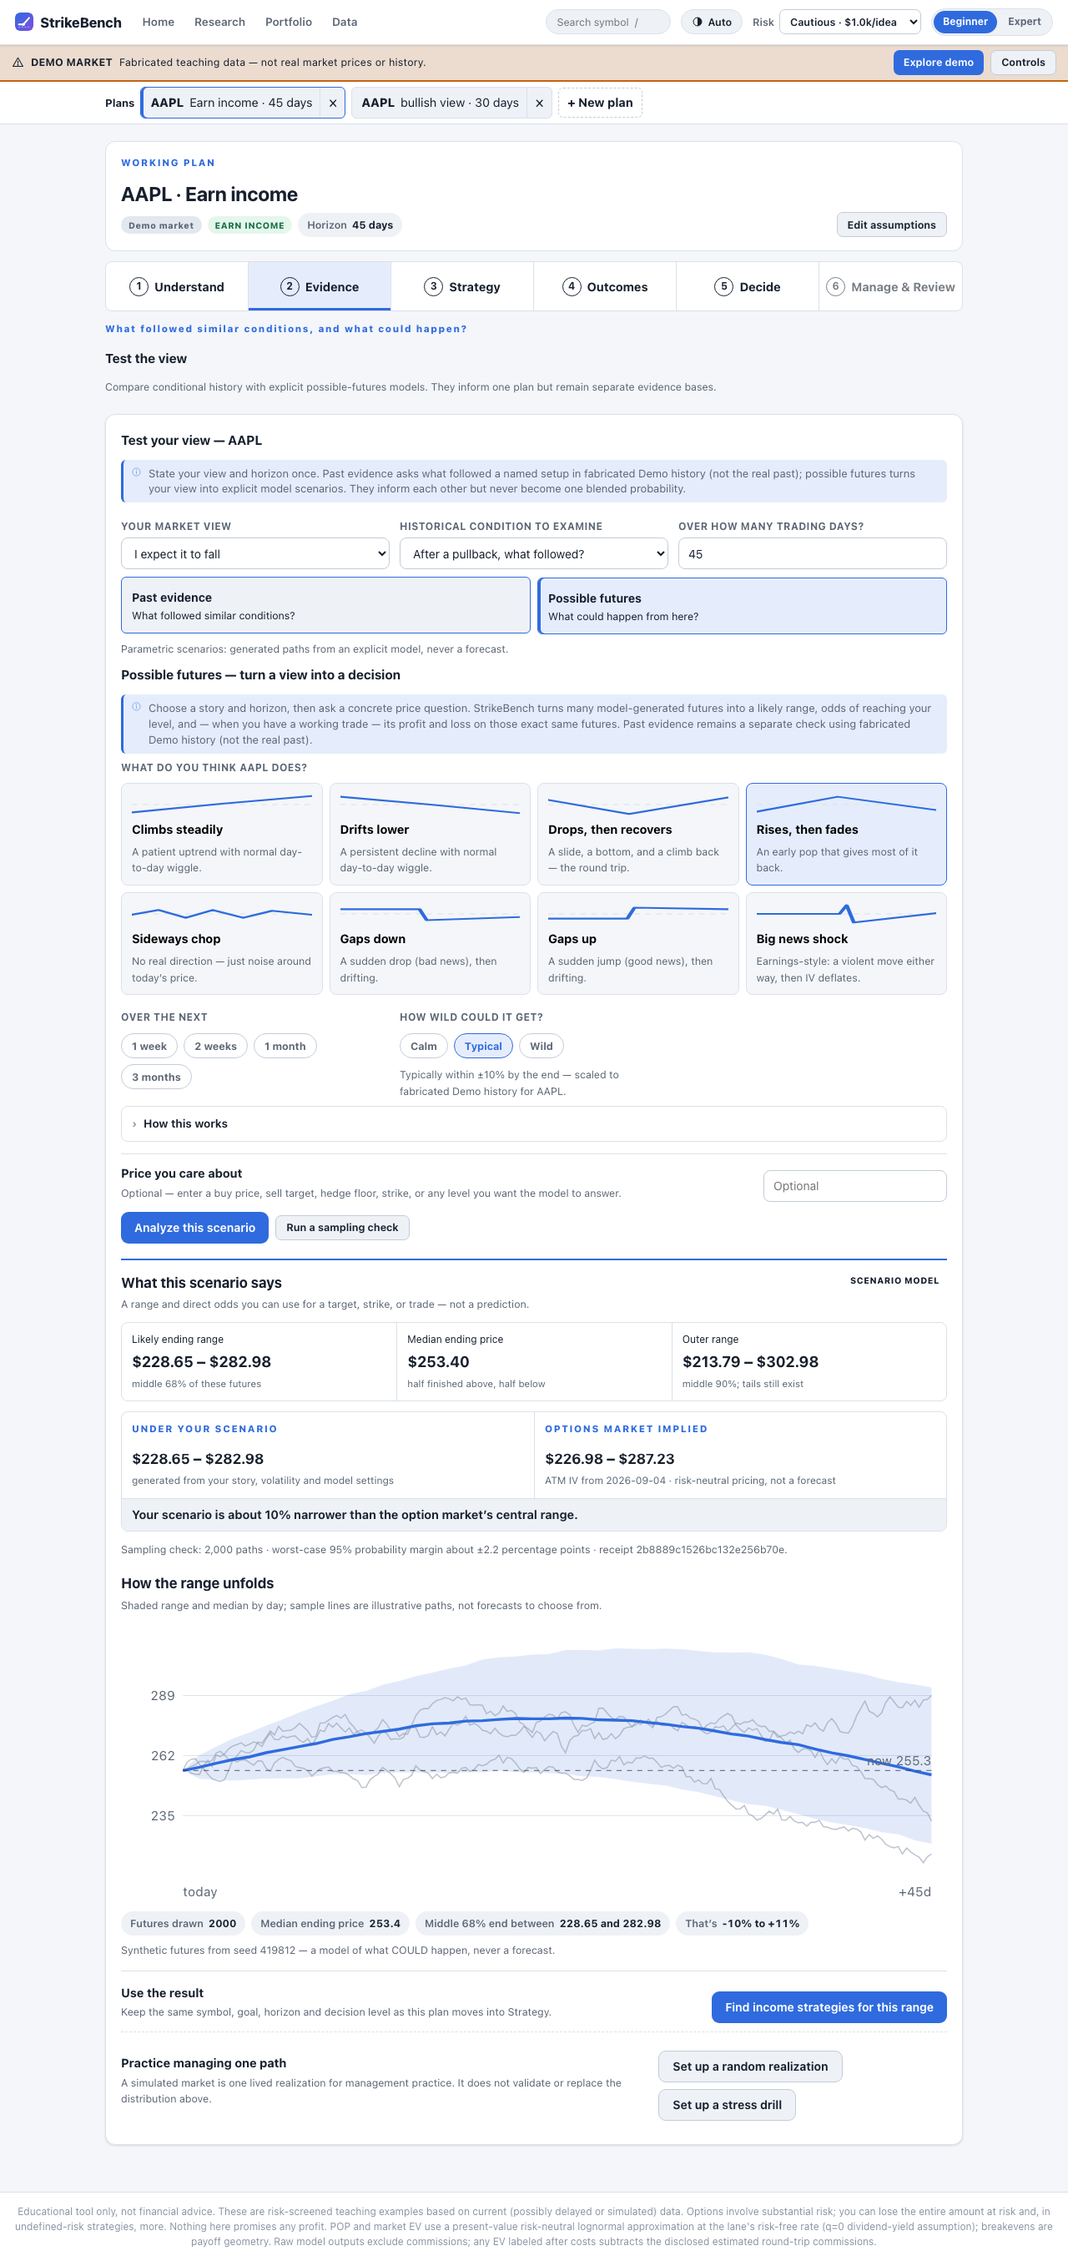
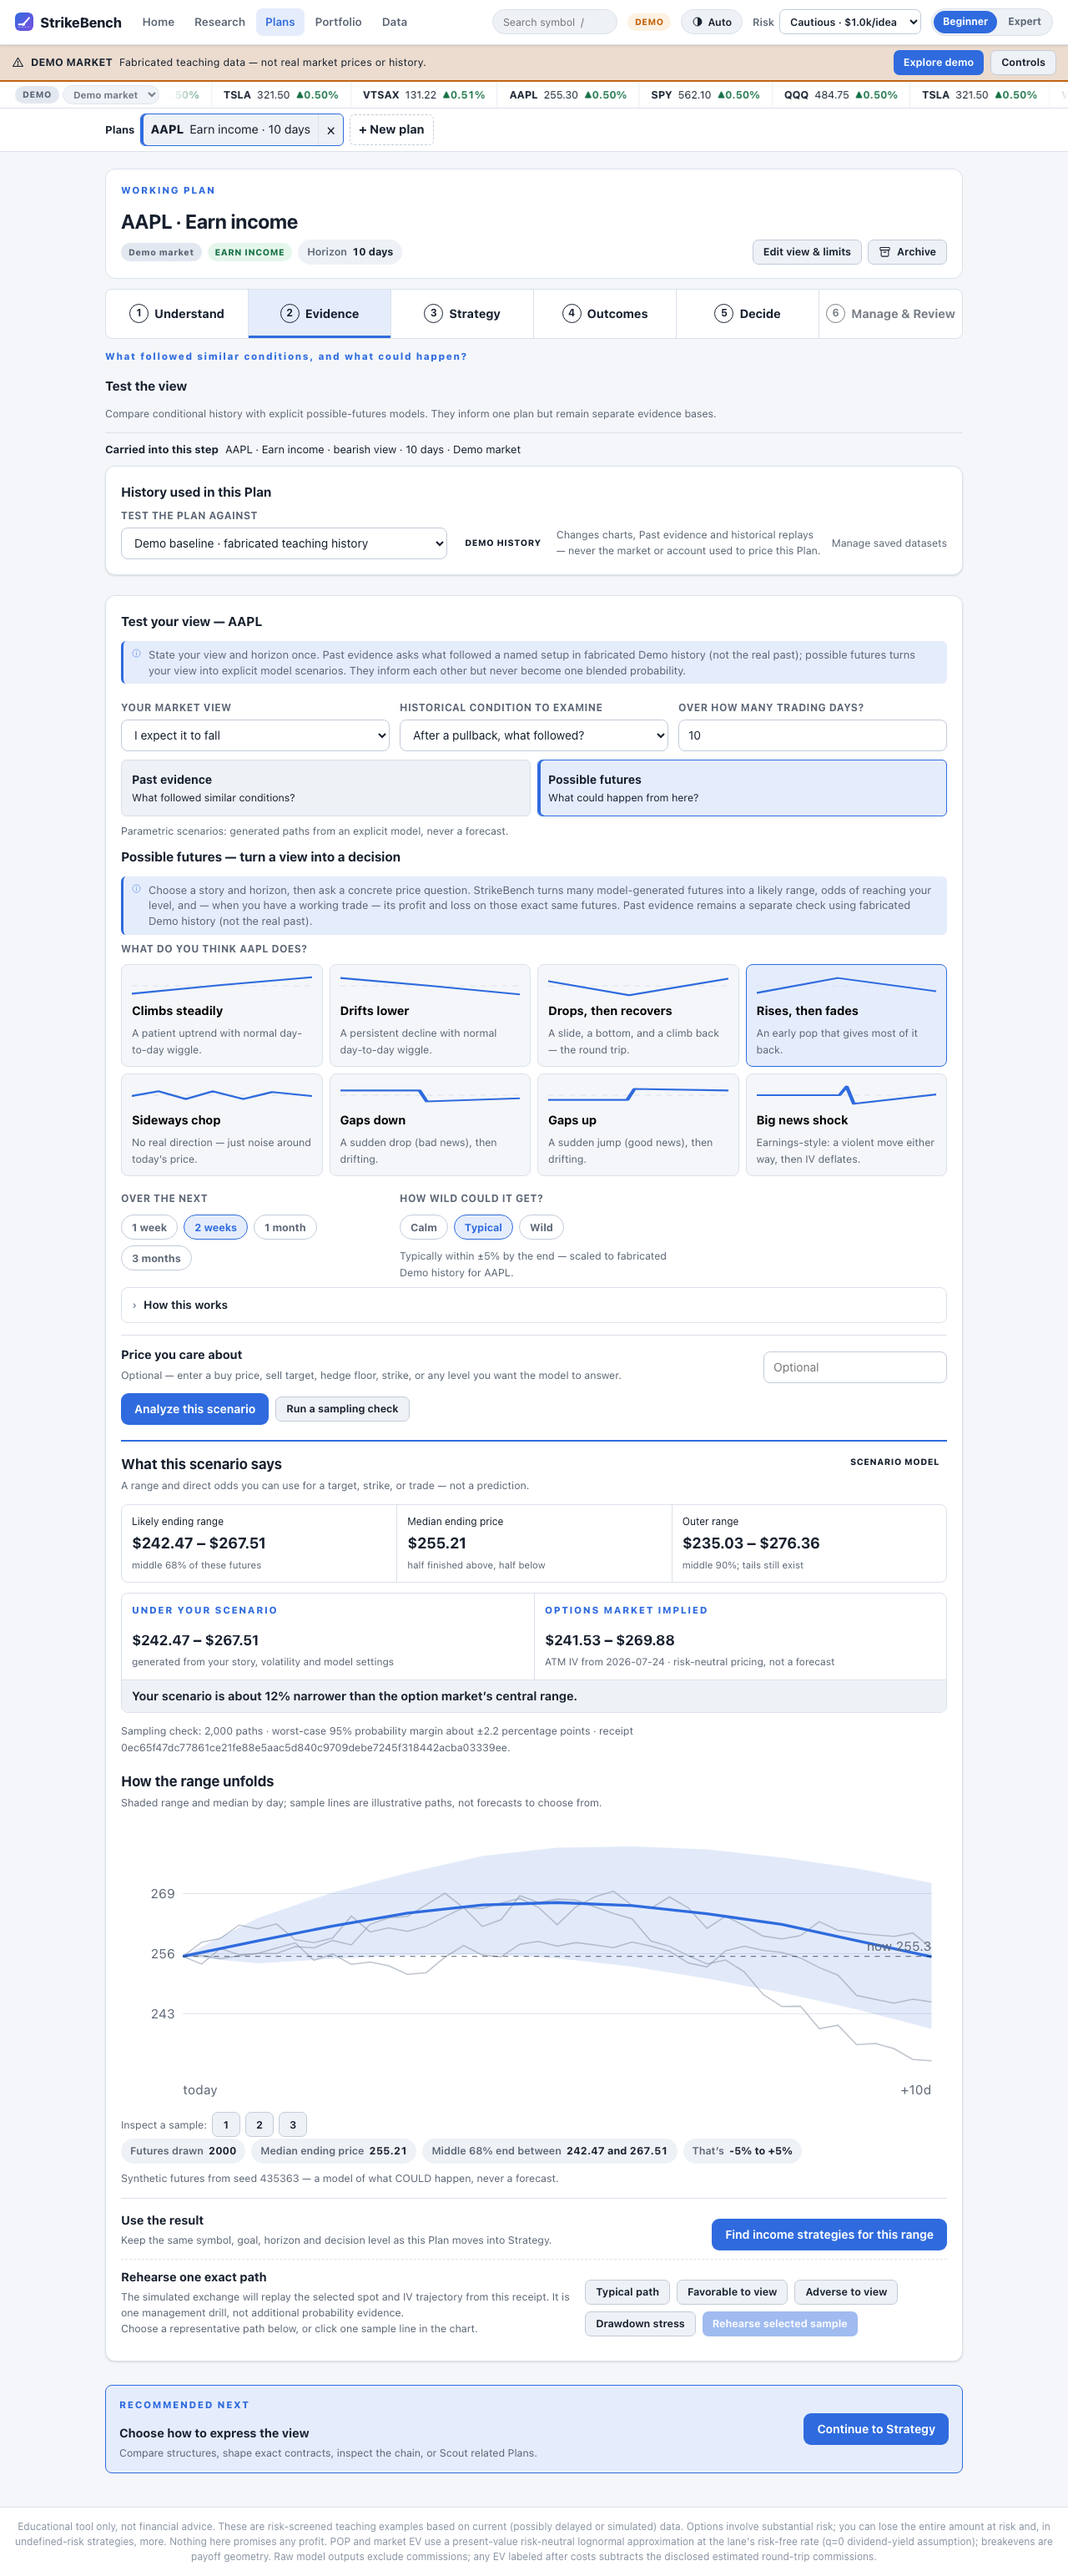
P54 broaden explanation and mobile journey audit

diff --git a/dom-tests/dom-audit.test.js b/dom-tests/dom-audit.test.js
@@ -88,7 +88,7 @@ const ALLOWED_HEIGHTS = [38, 30, 42, 46]; // welcome hero uses a deliberate 42px
 const TOLERANCE = 1.5;
 
 function auditInPage() {
-  const out = { overflow: [], emoji: [], controls: [], numbers: [] };
+  const out = { overflow: [], emoji: [], controls: [], numbers: [], tooltips: [] };
   const doc = document.documentElement;
   if (doc.scrollWidth > doc.clientWidth + 2) {
     // Animated/local-scroll children can be thousands of pixels wide without widening the
@@ -117,6 +117,32 @@ function auditInPage() {
   }
   const badNumbers = (document.body.innerText || '').match(/\$?NaN(?:\.NaN)?|NaN%/g) || [];
   if (badNumbers.length) out.numbers.push(...badNumbers.slice(0, 8));
+  const norm = value => String(value || '').replace(/\s+/g, ' ').trim().toLowerCase();
+  document.querySelectorAll('[title]').forEach(el => {
+    if (!el.offsetParent) return;
+    const title = norm(el.getAttribute('title'));
+    const visible = norm(el.innerText || el.textContent);
+    if (title.length > 1 && (visible === title || (title.length > 18 && visible.includes(title)))) {
+      out.tooltips.push('native:' + (el.id || el.className || el.tagName).toString().slice(0, 44)
+        + ' repeats "' + title.slice(0, 80) + '"');
+    }
+  });
+  document.querySelectorAll('.info-trigger[data-term]').forEach(trigger => {
+    if (!trigger.offsetParent || !window.Learn || !Learn.INFO) return;
+    const key = trigger.getAttribute('data-term');
+    const def = Learn.INFO[key];
+    if (!def || !def.short) return;
+    const context = trigger.closest('label,.chip,.stat,.market-fact,.field,.alert,.explain,.intent-note,.card-header')
+      || trigger.parentElement;
+    if (!context) return;
+    const clone = context.cloneNode(true);
+    clone.querySelectorAll('.info-trigger,.info-pop').forEach(node => node.remove());
+    const visible = norm(clone.textContent);
+    const short = norm(def.short);
+    if (short.length > 18 && (visible === short || visible.includes(short))) {
+      out.tooltips.push('info:' + key + ' repeats nearby visible copy "' + short.slice(0, 80) + '"');
+    }
+  });
   document.querySelectorAll(
     '#app input:not([type=checkbox]):not([type=radio]), #app select, #app .btn, #app .goal-chip'
   ).forEach(el => {
@@ -143,6 +169,7 @@ for (const width of WIDTHS) {
       for (const e of res.emoji) failures.push(`${route}@${width}: EMOJI ${e}`);
       for (const c of res.controls) failures.push(`${route}@${width}: CONTROL-HEIGHT ${c}`);
       for (const n of res.numbers) failures.push(`${route}@${width}: NON-FINITE ${n}`);
+      for (const t of res.tooltips) failures.push(`${route}@${width}: DUPLICATE-TOOLTIP ${t}`);
     }
     assert.deepEqual(failures, [], failures.join('\n'));
   });
